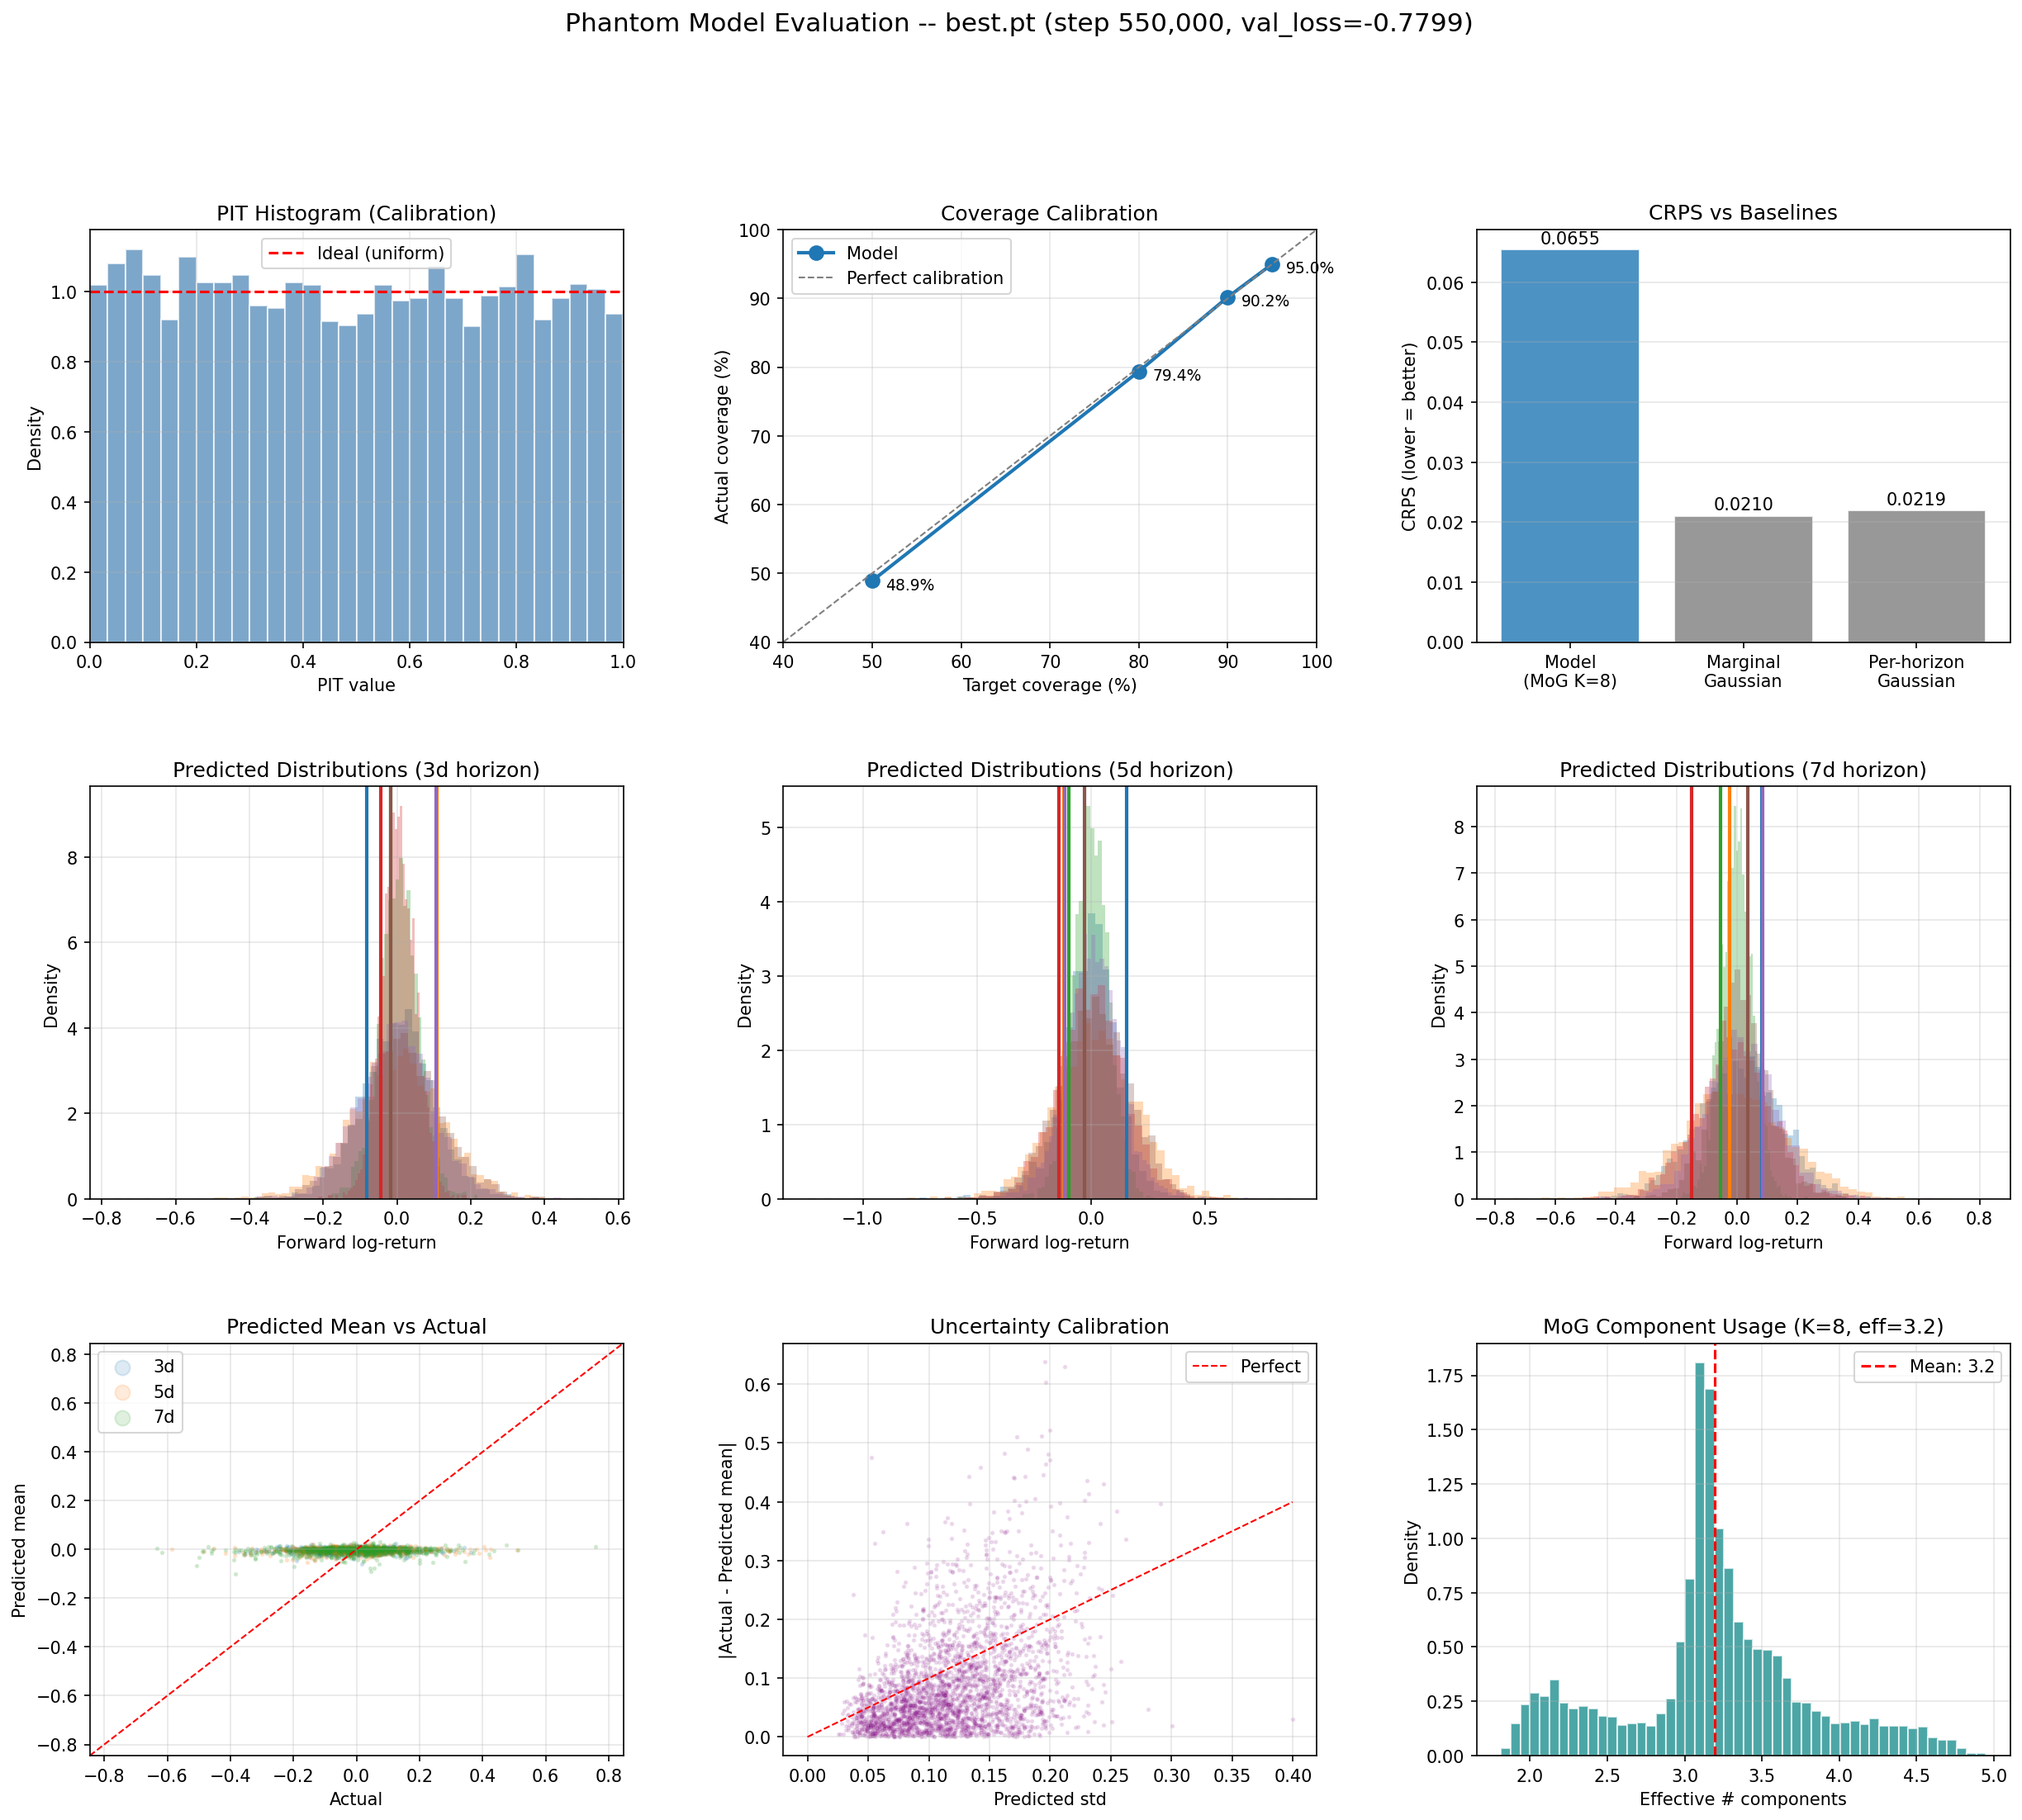
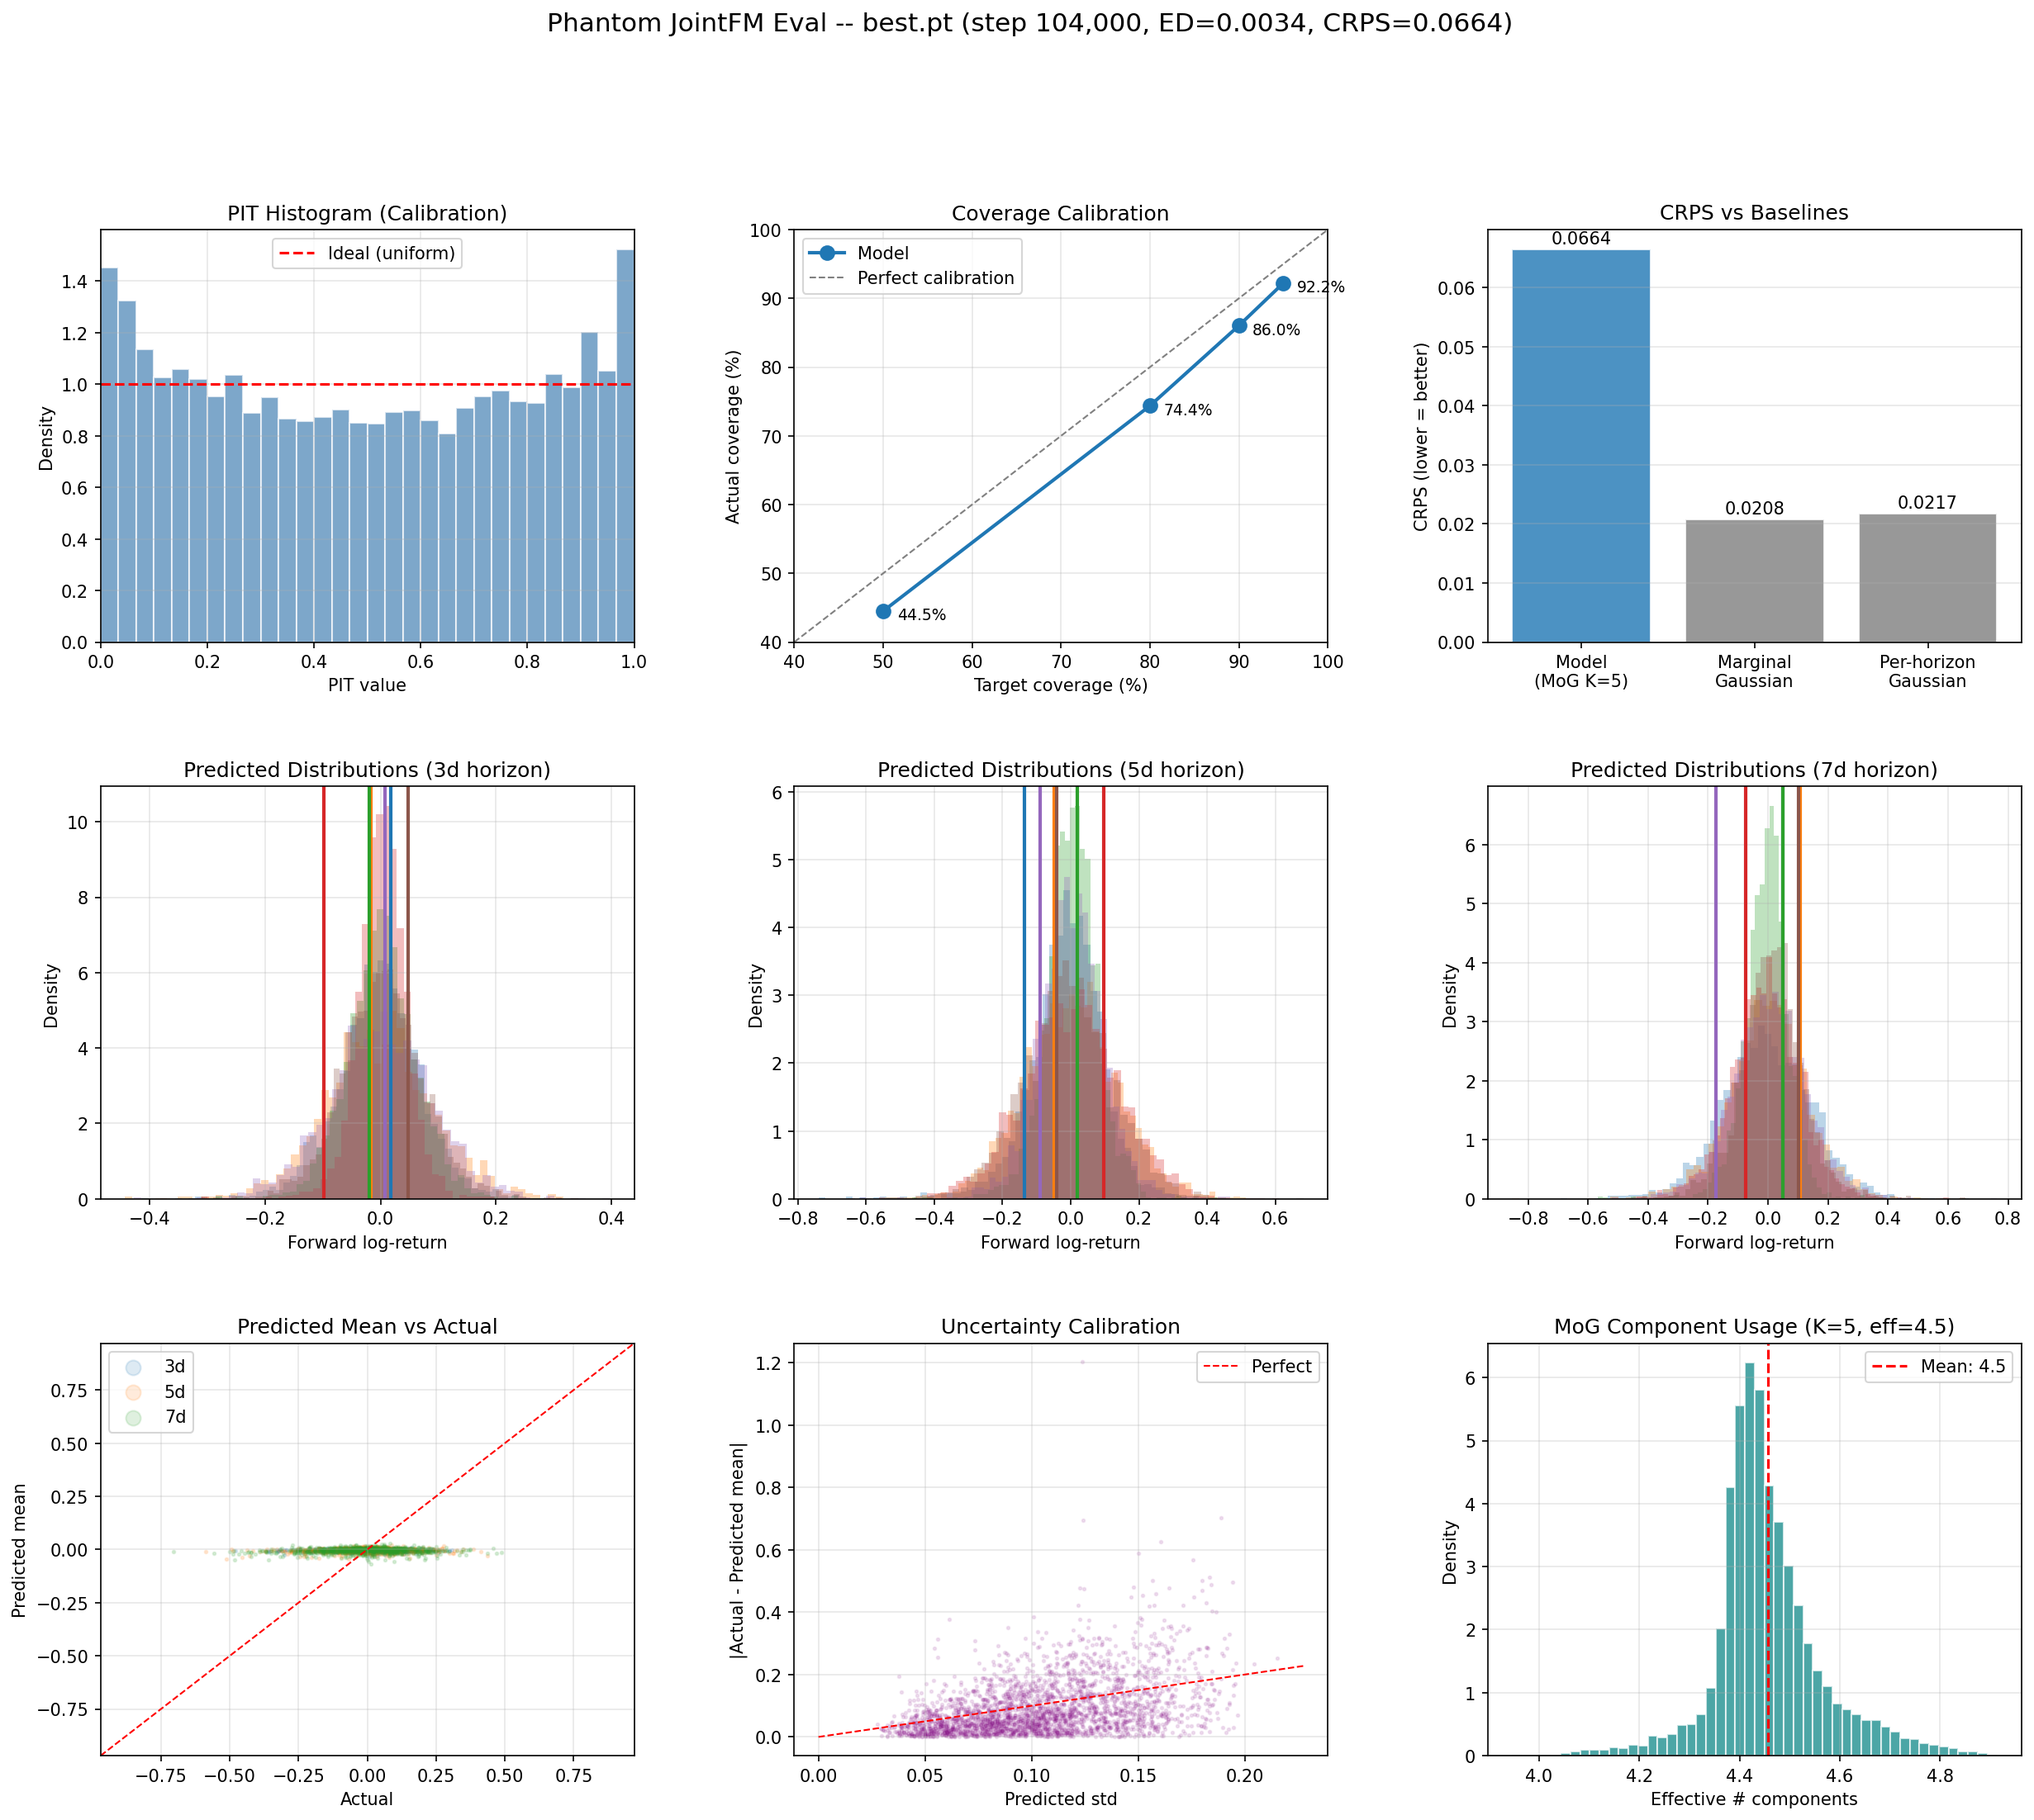
Done finetuning, update eval accordingly

diff --git a/eval_model.py b/eval_model.py
@@ -1,4 +1,4 @@
-"""Evaluate best.pt checkpoint on fresh synthetic test data."""
+"""Evaluate best.pt checkpoint — same plots as old eval for comparison."""
 
 import numpy as np
 import torch
@@ -10,7 +10,7 @@ from scipy.stats import norm as scipy_norm
 
 from src.model import PhantomConfig, PhantomModel
 from src.data import make_validation_batch
-from src.losses import combined_loss
+from src.losses import energy_distance_loss, nll_loss, crps_loss
 
 
 def mog_cdf(y, pi, mu, sigma):
@@ -36,17 +36,22 @@ def main():
     # ── Load model ──
     ckpt = torch.load('checkpoints/best.pt', map_location='cpu', weights_only=False)
     cfg_dict = ckpt['config']
-    print(f"Checkpoint step: {ckpt['step']:,}, epoch: {ckpt['epoch']}, best_val_loss: {ckpt['best_val_loss']:.4f}")
-
     cfg = PhantomConfig(**{k: v for k, v in cfg_dict.items() if k in PhantomConfig.__dataclass_fields__})
     model = PhantomModel(cfg)
     model.load_state_dict(ckpt['model_state_dict'])
     model.eval()
-    print(f"Model loaded: {sum(p.numel() for p in model.parameters()):,} params")
+    print(f"Checkpoint step: {ckpt['step']:,}, best_val_loss: {ckpt['best_val_loss']:.4f}")
+    print(f"Model: {sum(p.numel() for p in model.parameters()):,} params, K={cfg.n_components}")
 
-    # ── Generate test data (different seed from training) ──
-    print("Generating test set...")
-    test_x, test_h, test_y = make_validation_batch(n_samples=8192, context_len=75, seed=7777)
+    # ── Generate test data with branches ──
+    print("Generating test set (8192 samples, 128 branches)...")
+    test_x, test_h, test_yb = make_validation_batch(
+        n_samples=8192, context_len=cfg.context_len, n_branches=128, seed=7777)
+
+    # Use a random branch per sample as the "true" scalar y (for CRPS/PIT/coverage)
+    rng = np.random.default_rng(42)
+    y_idx = rng.integers(0, 128, size=len(test_yb))
+    test_y = test_yb[torch.arange(len(test_yb)), y_idx]
 
     # ── Get predictions ──
     with torch.no_grad():
@@ -55,15 +60,20 @@ def main():
     pi = torch.exp(log_pi)
     pi_np, mu_np, sigma_np = pi.numpy(), mu.numpy(), sigma.numpy()
     y_np, h_np = test_y.numpy(), test_h.numpy()
+    yb_np = test_yb.numpy()
 
     print(f"Pi range: [{pi_np.min():.4f}, {pi_np.max():.4f}]")
     print(f"Mu range: [{mu_np.min():.4f}, {mu_np.max():.4f}]")
     print(f"Sigma range: [{sigma_np.min():.4f}, {sigma_np.max():.4f}]")
 
-    # ── Loss ──
+    # ── Losses ──
     with torch.no_grad():
-        loss, nll, crps_val = combined_loss(log_pi, mu, sigma, test_y, alpha=0.3)
-    print(f"Test loss: {loss.item():.4f}, NLL: {nll.item():.4f}, CRPS: {crps_val.item():.4f}")
+        ed = energy_distance_loss(log_pi, mu, sigma, test_yb, n_model_samples=256)
+        nll = nll_loss(log_pi, mu, sigma, test_y)
+        crps = crps_loss(log_pi, mu, sigma, test_y)
+    print(f"Energy Distance: {ed.item():.4f}")
+    print(f"NLL: {nll.item():.4f}")
+    print(f"CRPS: {crps.item():.4f}")
 
     # ── PIT values ──
     pit_values = np.array([mog_cdf(y_np[i], pi_np[i], mu_np[i], sigma_np[i]) for i in range(len(y_np))])
@@ -85,7 +95,6 @@ def main():
     # ── CRPS baselines ──
     y_mean, y_std = y_np.mean(), y_np.std()
     crps_gaussian = np.mean(np.abs(y_np - y_mean) - y_std * (1 / np.sqrt(np.pi)))
-
     crps_per_horizon = 0
     for h in [3, 5, 7]:
         mask = h_np == h
@@ -94,7 +103,7 @@ def main():
         crps_h = np.mean(np.abs(yh - m) - s * (1 / np.sqrt(np.pi)))
         crps_per_horizon += crps_h * mask.sum() / len(y_np)
 
-    crps_model = crps_val.item()
+    crps_model = crps.item()
     print(f"\nCRPS comparison:")
     print(f"  Model MoG:            {crps_model:.4f}")
     print(f"  Marginal Gaussian:    {crps_gaussian:.4f}")
@@ -107,7 +116,10 @@ def main():
     abs_error = np.abs(y_np - pred_mean)
     eff_k = np.exp(-np.sum(pi_np * np.log(pi_np + 1e-10), axis=1))
 
-    # ── Plot ──
+    print(f"\nPred mean std: {pred_mean.std():.4f} (old RevIN model: 0.0105)")
+    print(f"Effective K: {eff_k.mean():.2f}/{cfg.n_components}")
+
+    # ── Plot (same layout as old eval) ──
     fig = plt.figure(figsize=(20, 16))
     gs = GridSpec(3, 3, figure=fig, hspace=0.35, wspace=0.3)
 
@@ -115,12 +127,9 @@ def main():
     ax = fig.add_subplot(gs[0, 0])
     ax.hist(pit_values, bins=30, density=True, alpha=0.7, color='steelblue', edgecolor='white')
     ax.axhline(1.0, color='red', linestyle='--', linewidth=1.5, label='Ideal (uniform)')
-    ax.set_xlabel('PIT value')
-    ax.set_ylabel('Density')
+    ax.set_xlabel('PIT value'); ax.set_ylabel('Density')
     ax.set_title('PIT Histogram (Calibration)')
-    ax.legend()
-    ax.grid(True, alpha=0.3)
-    ax.set_xlim(0, 1)
+    ax.legend(); ax.grid(True, alpha=0.3); ax.set_xlim(0, 1)
 
     # 2. Coverage
     ax = fig.add_subplot(gs[0, 1])
@@ -131,17 +140,14 @@ def main():
     ax.plot([40, 100], [40, 100], '--', color='gray', linewidth=1, label='Perfect calibration')
     for t, a in zip(target, actual):
         ax.annotate(f'{a:.1f}%', (t, a), textcoords="offset points", xytext=(8, -5), fontsize=9)
-    ax.set_xlabel('Target coverage (%)')
-    ax.set_ylabel('Actual coverage (%)')
+    ax.set_xlabel('Target coverage (%)'); ax.set_ylabel('Actual coverage (%)')
     ax.set_title('Coverage Calibration')
-    ax.legend()
-    ax.grid(True, alpha=0.3)
-    ax.set_xlim(40, 100)
-    ax.set_ylim(40, 100)
+    ax.legend(); ax.grid(True, alpha=0.3)
+    ax.set_xlim(40, 100); ax.set_ylim(40, 100)
 
     # 3. CRPS comparison
     ax = fig.add_subplot(gs[0, 2])
-    methods = ['Model\n(MoG K=8)', 'Marginal\nGaussian', 'Per-horizon\nGaussian']
+    methods = ['Model\n(MoG K=5)', 'Marginal\nGaussian', 'Per-horizon\nGaussian']
     crps_vals = [crps_model, crps_gaussian, crps_per_horizon]
     colors = ['tab:blue', 'tab:gray', 'tab:gray']
     bars = ax.bar(methods, crps_vals, color=colors, alpha=0.8, edgecolor='white')
@@ -163,8 +169,7 @@ def main():
             color = f'C{i}'
             ax.hist(samples, bins=60, density=True, alpha=0.3, color=color)
             ax.axvline(y_np[si], color=color, linewidth=2, linestyle='-')
-        ax.set_xlabel('Forward log-return')
-        ax.set_ylabel('Density')
+        ax.set_xlabel('Forward log-return'); ax.set_ylabel('Density')
         ax.set_title(f'Predicted Distributions ({h_val}d horizon)')
         ax.grid(True, alpha=0.3)
 
@@ -175,36 +180,29 @@ def main():
         ax.scatter(y_np[mask][::3], pred_mean[mask][::3], alpha=0.15, s=3, color=color, label=label)
     lim = max(abs(y_np.min()), abs(y_np.max()), abs(pred_mean.min()), abs(pred_mean.max())) * 0.8
     ax.plot([-lim, lim], [-lim, lim], 'r--', linewidth=1)
-    ax.set_xlabel('Actual')
-    ax.set_ylabel('Predicted mean')
+    ax.set_xlabel('Actual'); ax.set_ylabel('Predicted mean')
     ax.set_title('Predicted Mean vs Actual')
-    ax.legend(markerscale=5)
-    ax.grid(True, alpha=0.3)
-    ax.set_xlim(-lim, lim)
-    ax.set_ylim(-lim, lim)
+    ax.legend(markerscale=5); ax.grid(True, alpha=0.3)
+    ax.set_xlim(-lim, lim); ax.set_ylim(-lim, lim)
 
     # 8. Uncertainty calibration
     ax = fig.add_subplot(gs[2, 1])
     ax.scatter(pred_std[::3], abs_error[::3], alpha=0.1, s=3, color='purple')
     ax.plot([0, pred_std.max()], [0, pred_std.max()], 'r--', linewidth=1, label='Perfect')
-    ax.set_xlabel('Predicted std')
-    ax.set_ylabel('|Actual - Predicted mean|')
+    ax.set_xlabel('Predicted std'); ax.set_ylabel('|Actual - Predicted mean|')
     ax.set_title('Uncertainty Calibration')
-    ax.legend()
-    ax.grid(True, alpha=0.3)
+    ax.legend(); ax.grid(True, alpha=0.3)
 
     # 9. Effective component count
     ax = fig.add_subplot(gs[2, 2])
     ax.hist(eff_k, bins=50, density=True, alpha=0.7, color='teal', edgecolor='white')
     ax.axvline(eff_k.mean(), color='red', linestyle='--', label=f'Mean: {eff_k.mean():.1f}')
-    ax.set_xlabel('Effective # components')
-    ax.set_ylabel('Density')
-    ax.set_title(f'MoG Component Usage (K=8, eff={eff_k.mean():.1f})')
-    ax.legend()
-    ax.grid(True, alpha=0.3)
+    ax.set_xlabel('Effective # components'); ax.set_ylabel('Density')
+    ax.set_title(f'MoG Component Usage (K={cfg.n_components}, eff={eff_k.mean():.1f})')
+    ax.legend(); ax.grid(True, alpha=0.3)
 
     fig.suptitle(
-        f"Phantom Model Evaluation -- best.pt (step {ckpt['step']:,}, val_loss={ckpt['best_val_loss']:.4f})",
+        f"Phantom JointFM Eval -- best.pt (step {ckpt['step']:,}, ED={ed.item():.4f}, CRPS={crps_model:.4f})",
         fontsize=15, y=0.99,
     )
     plt.savefig('model_eval.png', dpi=150, bbox_inches='tight')
